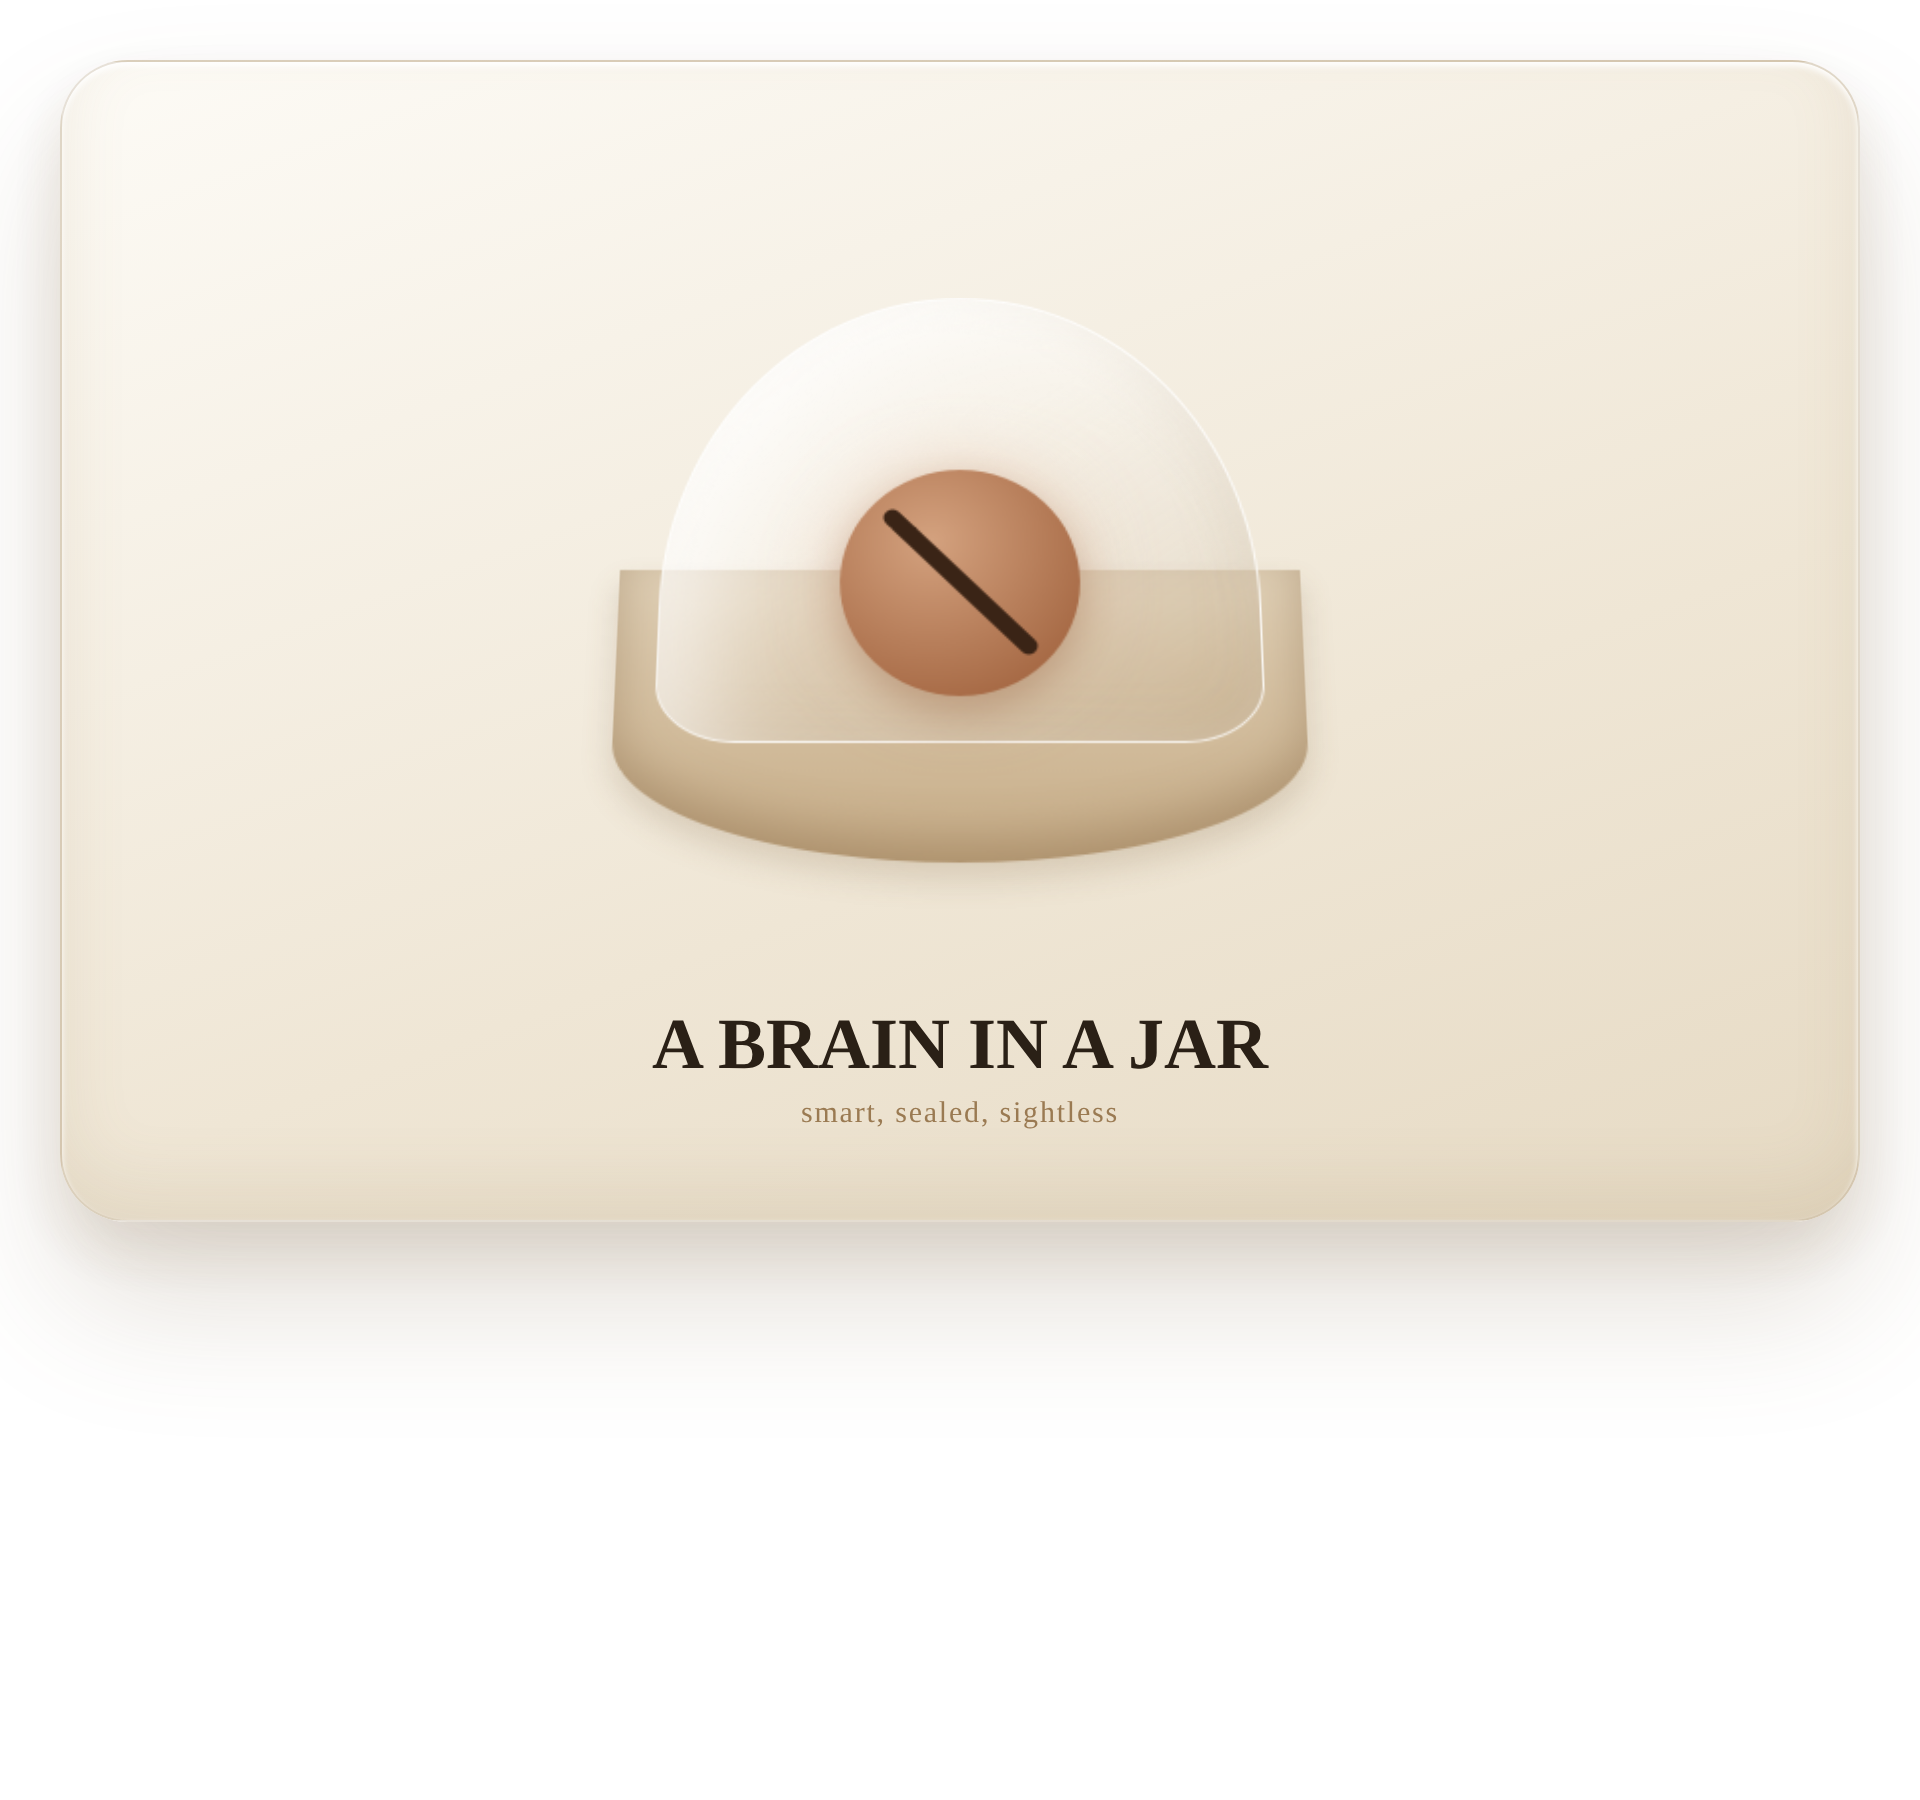
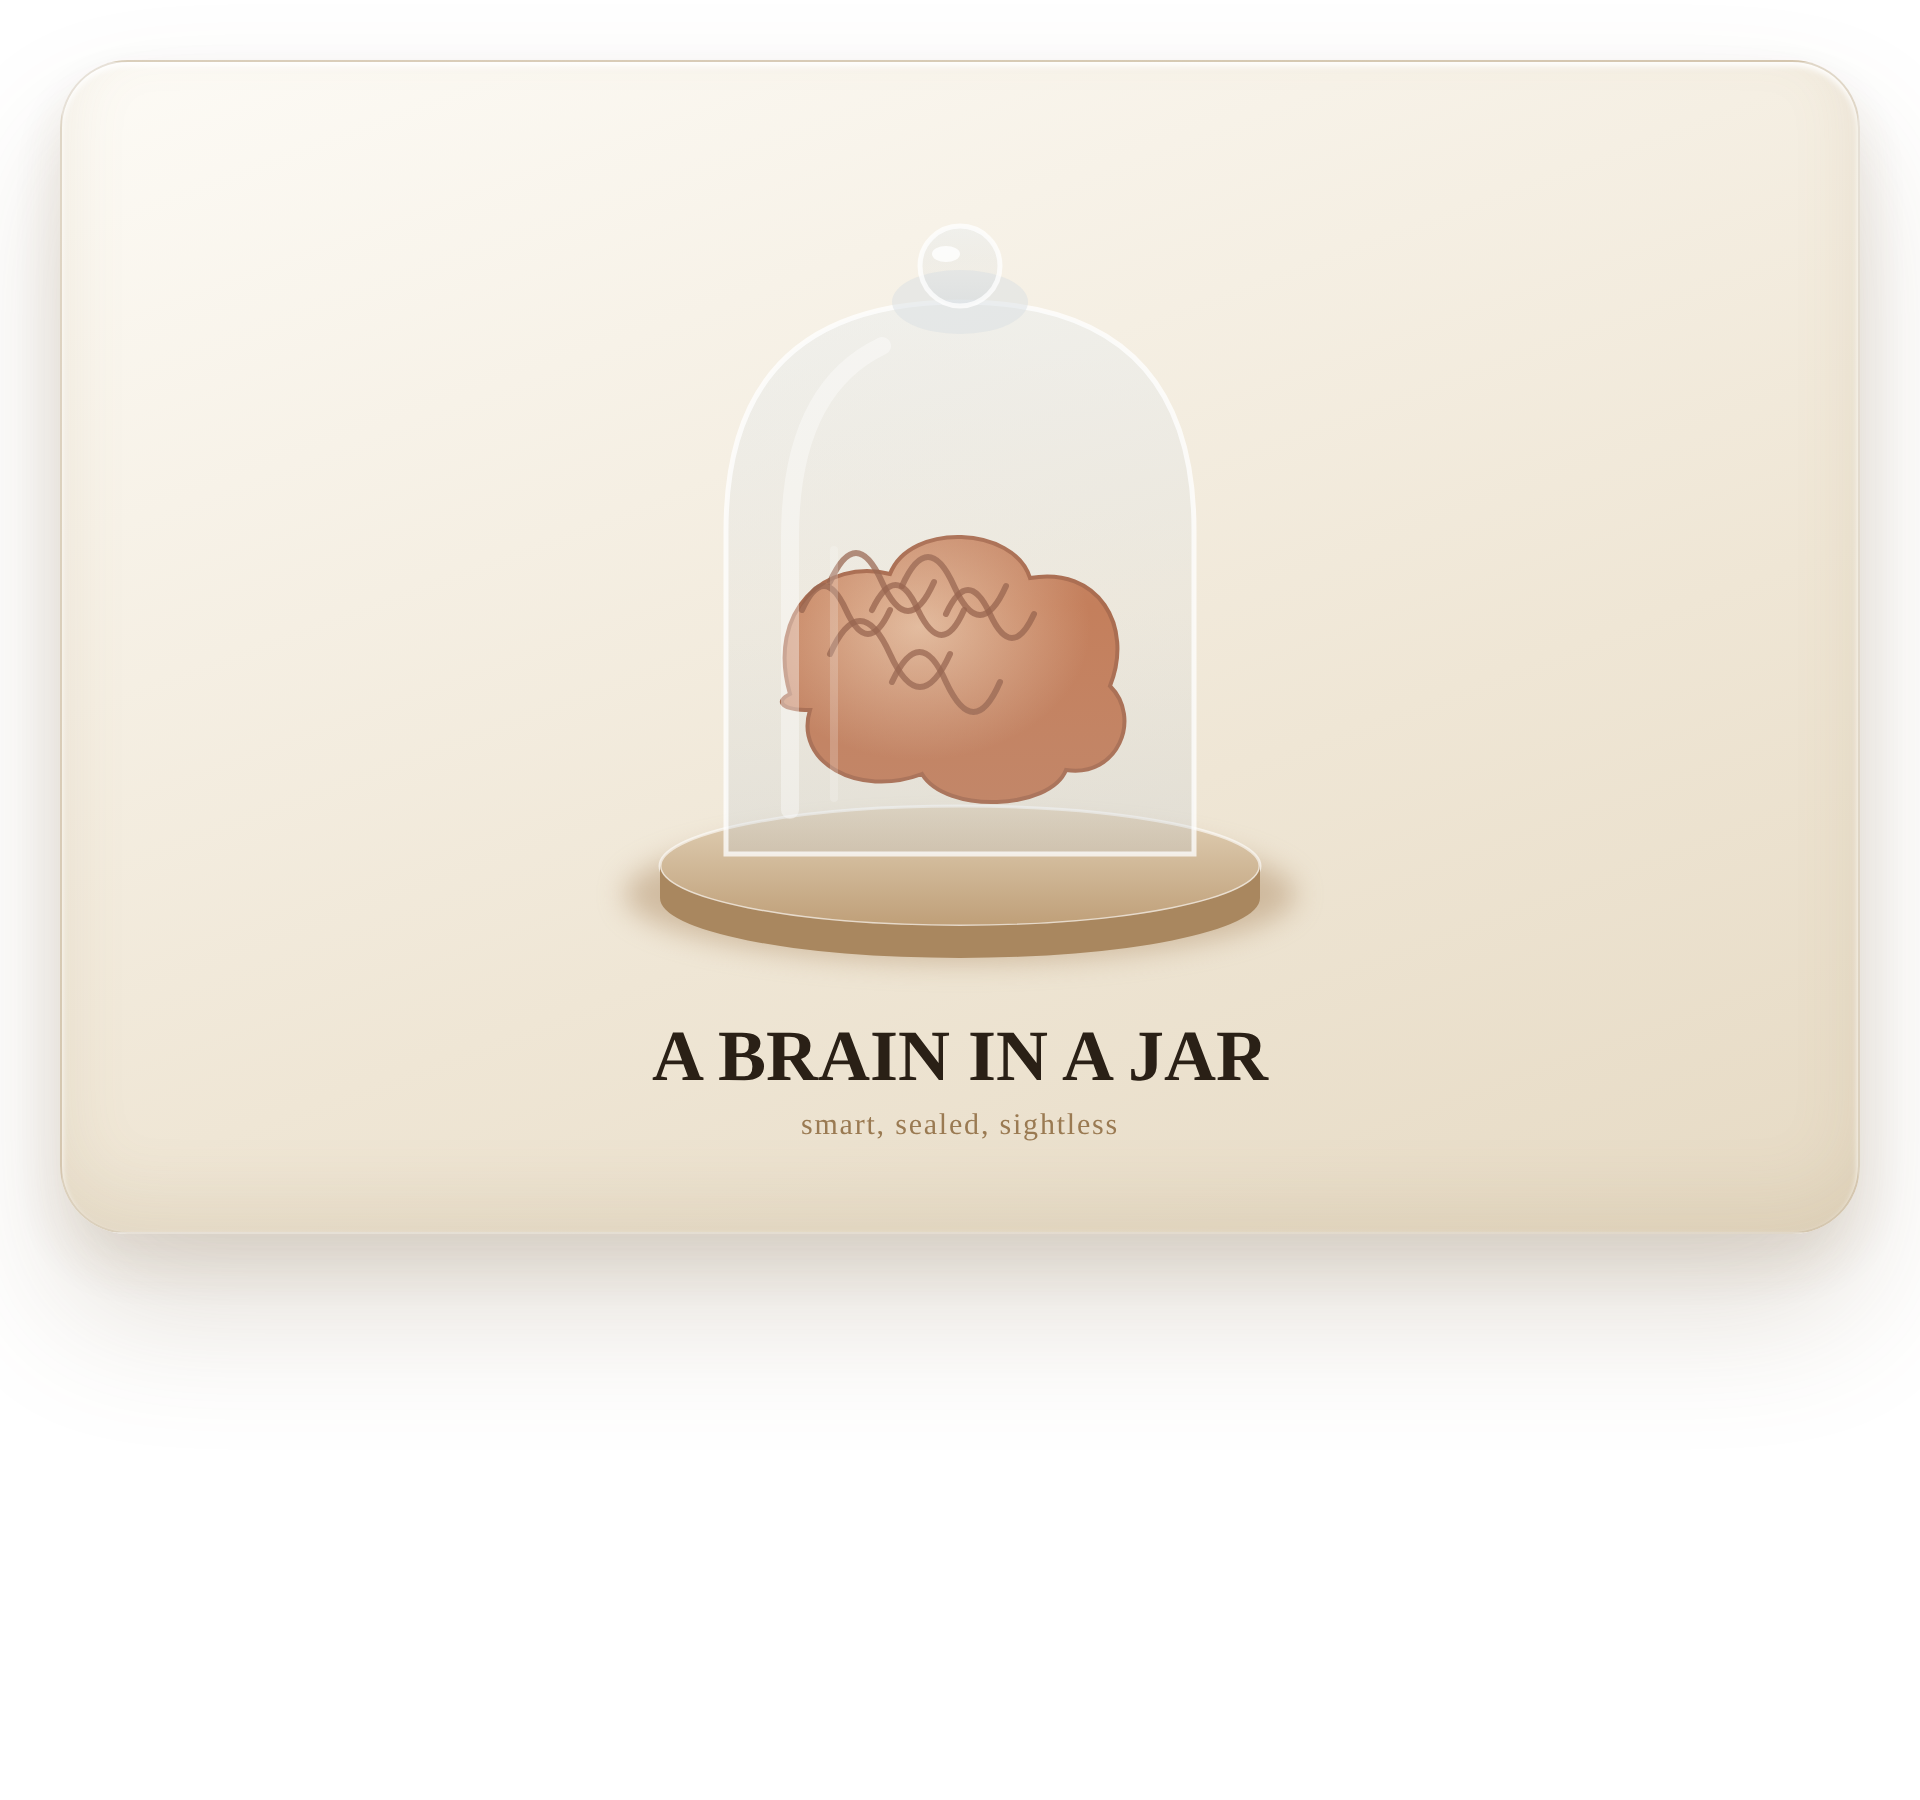
Slide 2 jar: glob de sticla real (bell jar cu buton/reflexii/baza) + creier recognoscibil cu circumvolutiuni - element sugestiv, pending validare

Changed region(s): [[0.3125, 0.2489, 0.6875, 0.6533], [0.9375, 0.6533, 0.9688, 0.6844]]

diff --git a/content/_hitl-src/eyes_t3.py b/content/_hitl-src/eyes_t3.py
@@ -21,23 +21,44 @@ CARDL='background:linear-gradient(165deg,#463d34,#332b24);border:1px solid rgba(
 # accent. No abrupt dark block. (slide 2 only, pending validation)
 CARDIV='background:linear-gradient(160deg,#fdfbf6,#efe6d5 62%,#e6dac4);border:1px solid rgba(120,95,60,.16);border-radius:34px;box-shadow:0 40px 70px rgba(120,95,60,.20),0 14px 28px rgba(120,95,60,.14), inset 0 2px 3px rgba(255,255,255,.95), inset 0 -16px 34px rgba(150,120,80,.12)'
 def jar():
+    # recognizable BRAIN (side profile w/ gyri) under a real GLASS BELL JAR (knob, rim, base,
+    # specular streaks). Built from cream palette. cx=230.
+    # brain gyri: stacked C-curves fill the lobe so it reads as a brain, not a disc
+    import math as _m
+    gyri=""
+    folds=[(178,250,44),(196,236,52),(214,250,46),(232,238,52),(250,252,44),(200,272,60),(228,286,54)]
+    for cxg,cyg,r in folds:
+        gyri+=f'<path d="M{cxg-r/2:.0f} {cyg} q {r/4:.0f} -{r*0.55:.0f} {r/2:.0f} 0 q {r/4:.0f} {r*0.55:.0f} {r/2:.0f} 0" fill="none" stroke="#8a4a2e" stroke-width="3" stroke-linecap="round" opacity="0.75"/>'
     return f'''<div style="width:900px;{CARDIV};padding:44px;text-align:center">
-      <div style="perspective:1400px;height:420px;display:flex;align-items:center;justify-content:center">
-        <div style="transform-style:preserve-3d;transform:rotateX(20deg)">
-          <div style="position:relative;width:340px;height:300px;margin:0 auto">
-            <div style="position:absolute;left:0;bottom:0;width:340px;height:150px;border-radius:0 0 170px 170px/0 0 60px 60px;
-              background:linear-gradient(180deg,#e0d0b6,#c7ad88);box-shadow:inset 0 -10px 24px rgba(120,90,55,.35), 0 8px 16px rgba(120,90,55,.2)"></div>
-            <div style="position:absolute;left:20px;top:0;width:300px;height:240px;border-radius:150px 150px 40px 40px/170px 170px 30px 30px;
-              background:linear-gradient(145deg,rgba(255,255,255,.7),rgba(255,255,255,.28) 42%,rgba(150,120,80,.14));
-              border:1.5px solid rgba(255,255,255,.8);box-shadow:inset 22px 14px 48px rgba(255,255,255,.6), inset -10px -6px 26px rgba(150,120,80,.14)"></div>
-            <div style="position:absolute;left:110px;top:96px;width:120px;height:120px;border-radius:50%;
-              background:radial-gradient(circle at 38% 32%,rgb({ACC}),#9a5a35);box-shadow:0 0 40px rgba({ACC},.45), 0 8px 18px rgba(120,70,40,.3)"></div>
-            <div style="position:absolute;left:110px;top:96px;width:120px;height:120px">
-              <svg width="120" height="120"><line x1="26" y1="26" x2="94" y2="94" stroke="#3a2416" stroke-width="9" stroke-linecap="round"/></svg></div>
-          </div>
-        </div>
+      <div style="height:430px;display:flex;align-items:center;justify-content:center">
+      <svg width="470" height="470" viewBox="0 0 470 470">
+        <defs>
+          <radialGradient id="braing" cx="40%" cy="34%"><stop offset="0%" stop-color="#e6b48f"/><stop offset="100%" stop-color="#c06a3e"/></radialGradient>
+          <linearGradient id="glass" x1="0" y1="0" x2="0" y2="1"><stop offset="0%" stop-color="rgba(232,238,242,.42)"/><stop offset="55%" stop-color="rgba(214,222,228,.18)"/><stop offset="100%" stop-color="rgba(196,205,212,.30)"/></linearGradient>
+          <linearGradient id="plate" x1="0" y1="0" x2="0" y2="1"><stop offset="0%" stop-color="#e2d2b8"/><stop offset="100%" stop-color="#bf9f78"/></linearGradient>
+          <filter id="soft" x="-30%" y="-30%" width="160%" height="160%"><feGaussianBlur stdDeviation="7"/></filter>
+        </defs>
+        <!-- base plate -->
+        <ellipse cx="235" cy="392" rx="168" ry="34" fill="#b1906a" opacity="0.5" filter="url(#soft)"/>
+        <ellipse cx="235" cy="378" rx="150" ry="30" fill="url(#plate)" stroke="rgba(255,255,255,.6)" stroke-width="1.5"/>
+        <path d="M85 378 a150 30 0 0 0 300 0 v16 a150 30 0 0 1 -300 0 Z" fill="#a9875f"/>
+        <!-- brain (behind glass) -->
+        <g>
+          <path d="M150 292 C138 250 168 224 200 232 C210 206 262 208 270 234 C304 228 322 258 310 288 C326 304 314 334 288 330 C280 350 228 352 216 332 C184 344 152 326 160 300 C146 300 142 296 150 292 Z" fill="url(#braing)" stroke="#a0532f" stroke-width="2"/>
+          {gyri}
+        </g>
+        <!-- glass bell jar (over brain, translucent) -->
+        <path d="M118 372 L118 210 Q118 96 235 96 Q352 96 352 210 L352 372 Z" fill="url(#glass)" stroke="rgba(255,255,255,.75)" stroke-width="2.5"/>
+        <!-- specular highlight streaks -->
+        <path d="M150 350 L150 214 Q150 140 196 118" fill="none" stroke="rgba(255,255,255,.7)" stroke-width="9" stroke-linecap="round" opacity="0.55"/>
+        <path d="M172 344 L172 220" fill="none" stroke="rgba(255,255,255,.4)" stroke-width="4" stroke-linecap="round" opacity="0.5"/>
+        <!-- knob -->
+        <ellipse cx="235" cy="96" rx="34" ry="16" fill="#d9dfe4" opacity="0.5"/>
+        <circle cx="235" cy="78" r="20" fill="url(#glass)" stroke="rgba(255,255,255,.75)" stroke-width="2.5"/>
+        <ellipse cx="228" cy="72" rx="7" ry="4" fill="rgba(255,255,255,.8)"/>
+      </svg>
       </div>
-      <div style="font-family:'DM Sans';font-weight:900;font-size:36px;color:#2a2016;margin-top:6px">A BRAIN IN A JAR</div>
+      <div style="font-family:'DM Sans';font-weight:900;font-size:36px;color:#2a2016;margin-top:2px">A BRAIN IN A JAR</div>
       <div style="font-family:'DM Mono';font-size:15px;color:#9a7a52;letter-spacing:.06em;margin-top:6px">smart, sealed, sightless</div>
     </div>'''
 
